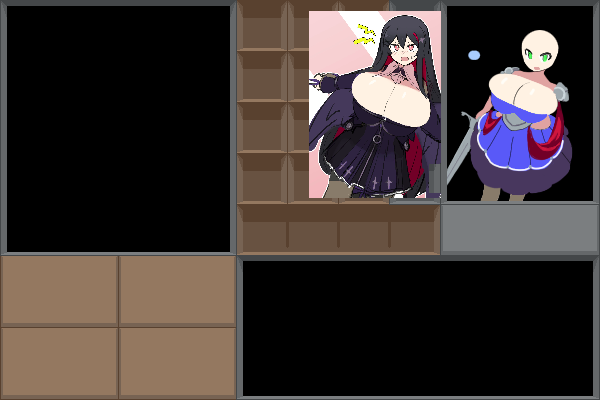
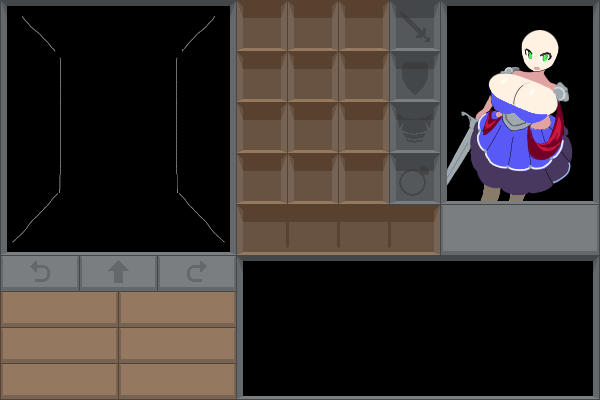
Correctly map mouse window position to letterbox position; Add nav buttons to bg

diff --git a/window.c b/window.c
@@ -208,6 +208,11 @@ int main(void) {
 				letterbox.y = (event.window.data2 - letterbox.h) / 2;
 
 			} else if (event.type == SDL_MOUSEBUTTONDOWN) {
+
+				event.button.x -= letterbox.x;
+				event.button.y -= letterbox.y;
+				event.button.x = event.button.x * SCREEN_W / letterbox.w;
+				event.button.y = event.button.y * SCREEN_H / letterbox.h;
 				
 				for (int i = 0; i < button_count; i++) {
 
@@ -223,6 +228,11 @@ int main(void) {
 				}
 
 			} else if (event.type == SDL_MOUSEBUTTONUP) {
+
+				event.button.x -= letterbox.x;
+				event.button.y -= letterbox.y;
+				event.button.x = event.button.x * SCREEN_W / letterbox.w;
+				event.button.y = event.button.y * SCREEN_H / letterbox.h;
 
 				if (button_down_on != -1) {
 
@@ -243,6 +253,11 @@ int main(void) {
 		// button hovering
 		int mouse_x, mouse_y;
 		SDL_GetMouseState(&mouse_x, &mouse_y);
+
+		mouse_x -= letterbox.x;
+		mouse_y -= letterbox.y;
+		mouse_x = mouse_x * SCREEN_W / letterbox.w;
+		mouse_y = mouse_y * SCREEN_H / letterbox.h;
 
 		for (int i = 0; i < button_count; i++) {
 

diff --git a/game.c b/game.c
@@ -7,7 +7,7 @@ static double b;
 void game_init() {
 
 	load_sprite("./res/bg.png");
-	register_button(0, 0, 200, 200);
+	register_button(0, 255, 80, 292);
 
 	set_text_scale(0.45);
 }
